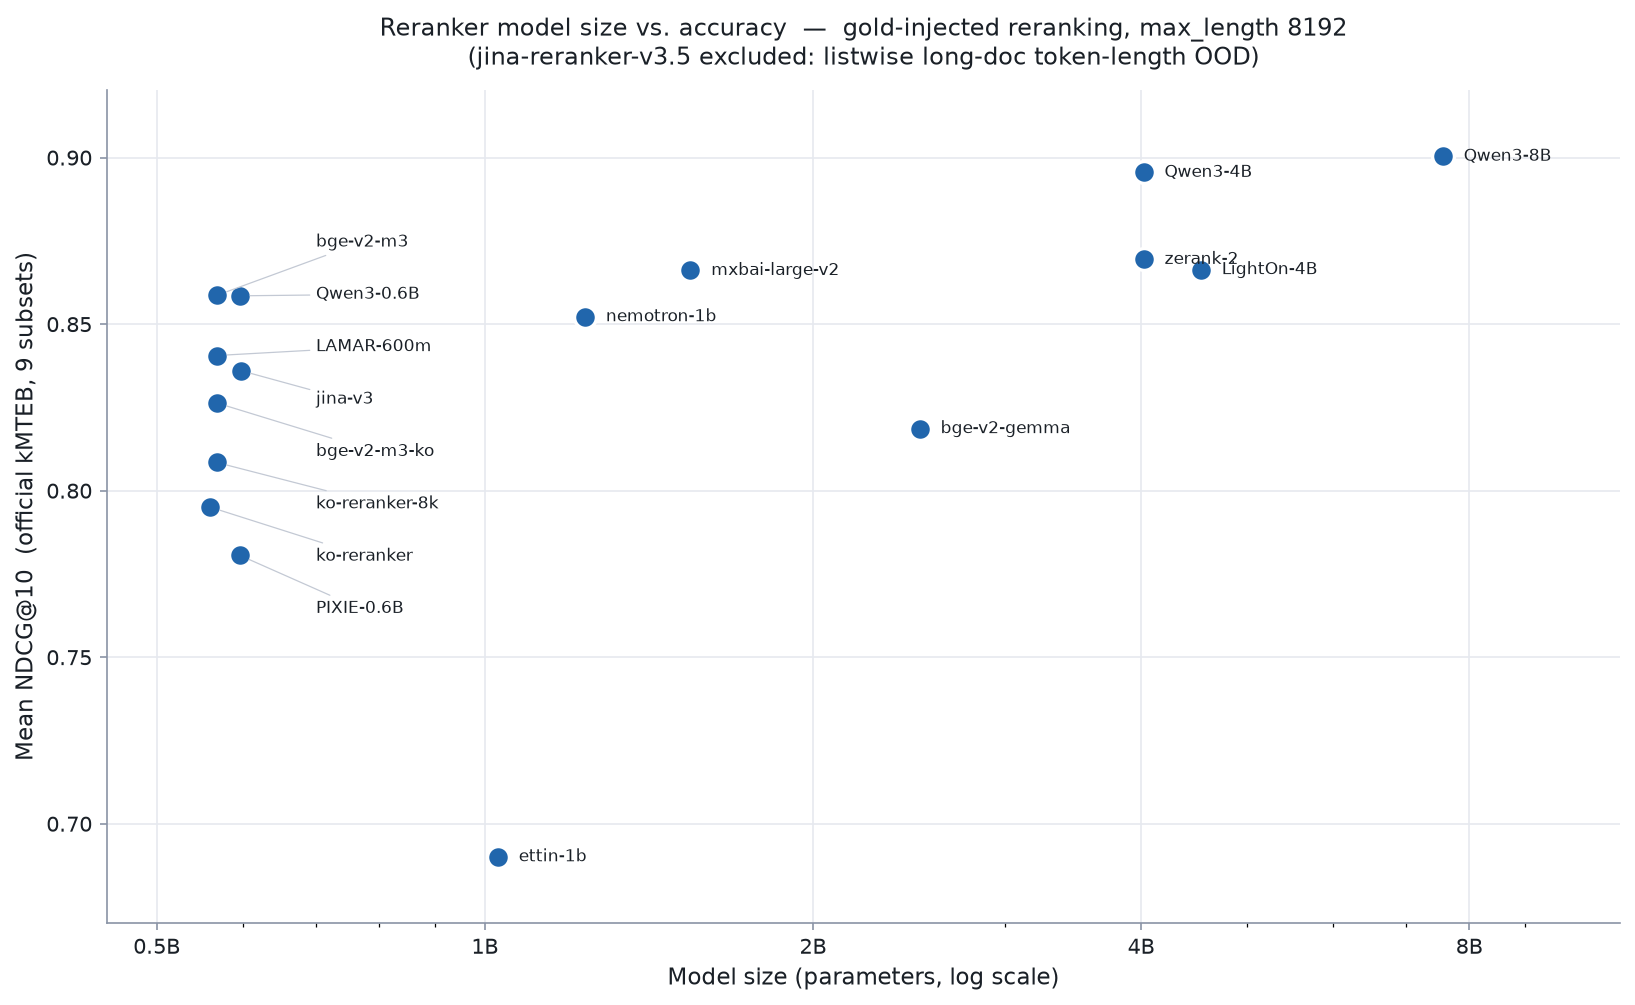
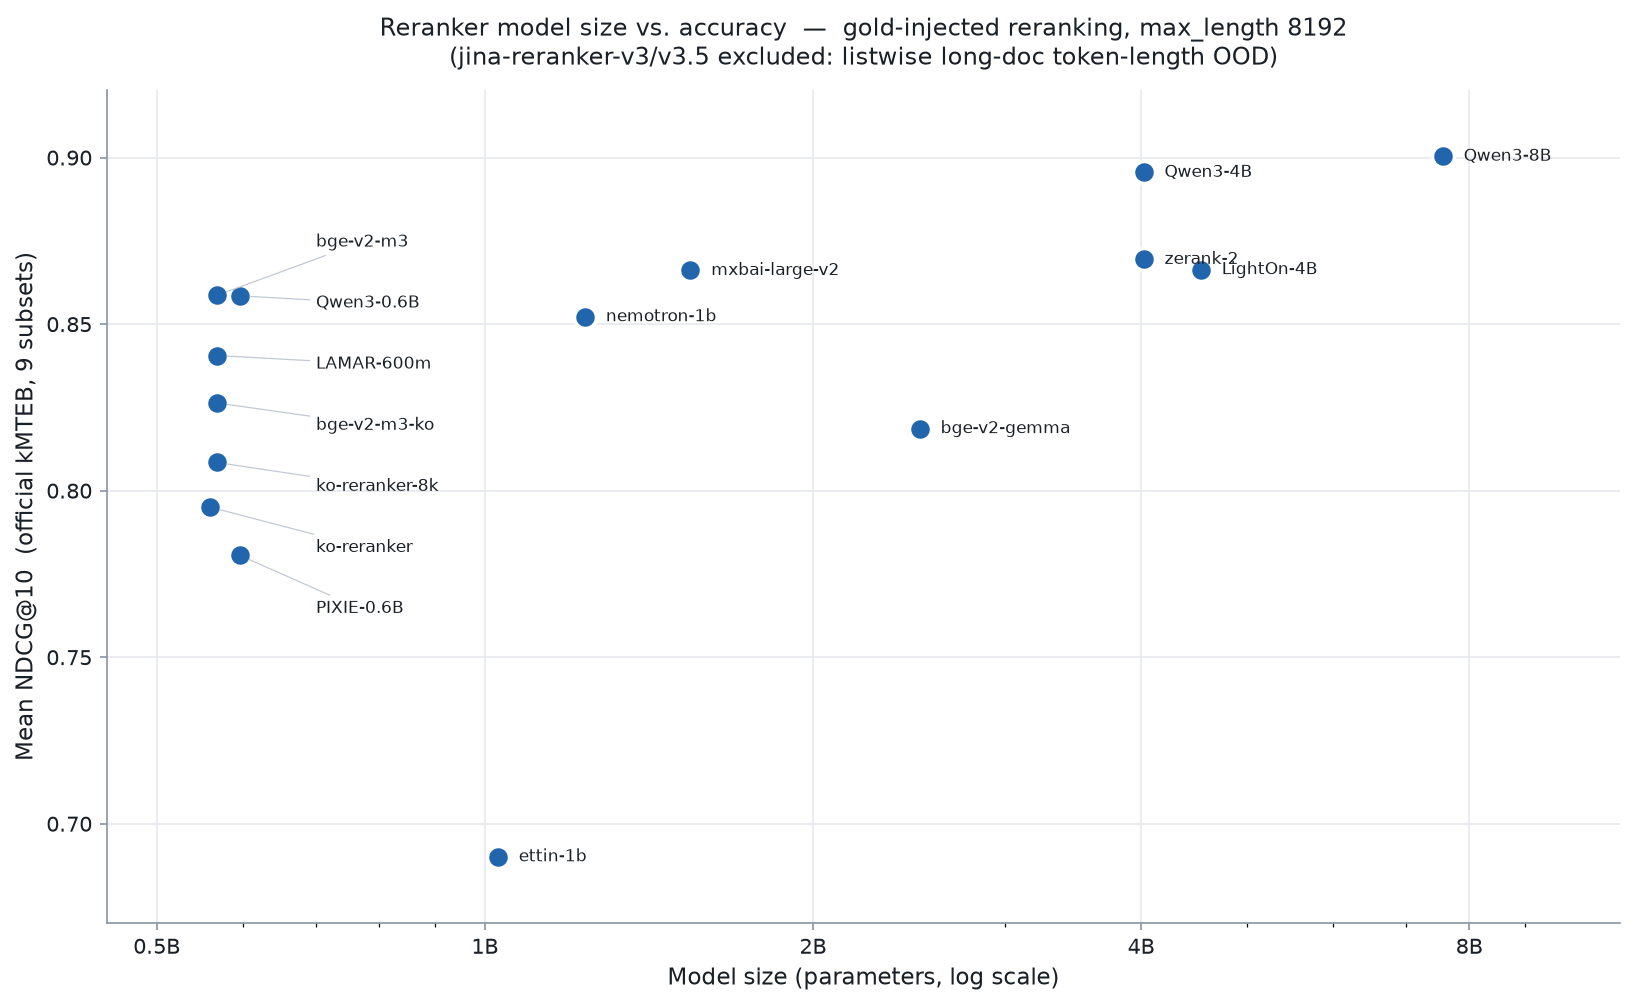
fix(jina): pass max_doc_length to rerank + unify v3/v3.5 MLDR as N/A
JinaRerankerV3Wrapper.predict 가 rerank 호출 시 max_doc_length 를 넘기지
않아, v3 는 wrapper 가 8192 로 pre-truncate 해도 rerank 내부 기본값
max_doc_length=2048 으로 재절단되어 기록된 _max_length=8192 와 실제 평가
길이가 불일치했다. inspect.signature 로 지원 시에만 전달하도록 수정
(v3.5 는 해당 인자가 없어 넘기면 TypeError → 시그니처 가드로 회피).

이 2048 버그 탓에 v3 만 MLDR 점수가 있고 v3.5 는 N/A 인 비대칭이 있었다.
8192 동일 조건에서 MLDR 은 후보 51개(mean ~8000 토큰)가 단일 컨텍스트
초과 → 블록 분할되며, 블록 확대 시 OOM(80GB 도)·블록 축소 시 listwise
소멸로 공정 비교가 불가능하다. 따라서 v3 의 MLDR 결과를 제거하고 v3/v3.5
모두 MLDR N/A 로 통일한다.

- eval/wrappers.py: max_doc_length 시그니처 가드 전달
- eval/results/.../jina-reranker-v3/MultiLongDocRetrieval.json 제거
- README.md: 9-subset 표에서 v3 제거, per-dataset MLDR=—, 근거 노트 v3/v3.5 통일
- assets/model_size_vs_ndcg9.png: 재생성(v3 제외, 15 models)
- eval/plot_size_vs_ndcg.py, leaderboard_reranker.py: v3/v3.5 라벨 통일

diff --git a/eval/wrappers.py b/eval/wrappers.py
@@ -1,3 +1,4 @@
+import inspect
 from abc import ABC, abstractmethod
 from typing import List, Tuple
 
@@ -127,6 +128,14 @@ class JinaRerankerV3Wrapper(BaseRerankerWrapper):
 
         scores = [0.0] * len(sentences)
 
+        # rerank 내부 문서 절단 길이를 max_doc_tokens 로 명시적으로 넘긴다.
+        # v3: rerank 기본값이 max_doc_length=2048 이라, 넘기지 않으면 wrapper 가 8192 로 미리
+        #     잘라도 내부에서 2048 로 재절단돼 기록된 _max_length=8192 와 불일치한다.
+        # v3.5: max_doc_length 인자 자체가 없어 넘기면 TypeError 이므로, 시그니처 지원 시에만 전달.
+        rerank_kwargs = {}
+        if "max_doc_length" in inspect.signature(self.model.rerank).parameters:
+            rerank_kwargs["max_doc_length"] = self.max_doc_tokens
+
         for query, doc_pairs in query_groups.items():
             if not doc_pairs:
                 continue
@@ -135,7 +144,8 @@ class JinaRerankerV3Wrapper(BaseRerankerWrapper):
 
             results = self.model.rerank(
                 query=query,
-                documents=list(docs)
+                documents=list(docs),
+                **rerank_kwargs
             )
 
             for result in results:

diff --git a/eval/plot_size_vs_ndcg.py b/eval/plot_size_vs_ndcg.py
@@ -1,7 +1,7 @@
 """모델 크기(파라미터 수) vs 성능(공식 kMTEB 9-subset mean NDCG@10) 산점도.
 
 - x축: 파라미터 수 (log scale, MODEL_SIZES 실측)
-- y축: 9개 공식 subset 평균 NDCG@10 (9개 전부 완료한 모델만 → listwise jina-reranker-v3.5 는
+- y축: 9개 공식 subset 평균 NDCG@10 (9개 전부 완료한 모델만 → listwise jina-reranker-v3/v3.5 는
         MLDR token-length OOD 로 자동 제외)
 - 단일 계열(모든 reranker 동일 카테고리) → 단일 색·범례 없음. 각 점에 모델명 직접 라벨.
 
@@ -92,7 +92,7 @@ def main():
     ax.set_xlabel("Model size (parameters, log scale)", fontsize=11, color=INK)
     ax.set_ylabel("Mean NDCG@10  (official kMTEB, 9 subsets)", fontsize=11, color=INK)
     ax.set_title("Reranker model size vs. accuracy  —  gold-injected reranking, max_length 8192\n"
-                 "(jina-reranker-v3.5 excluded: listwise long-doc token-length OOD)",
+                 "(jina-reranker-v3/v3.5 excluded: listwise long-doc token-length OOD)",
                  fontsize=11.5, color=INK, pad=12)
 
     ax.grid(True, which="major", color="#e6e9ef", linewidth=0.8, zorder=0)

diff --git a/eval/leaderboard_reranker.py b/eval/leaderboard_reranker.py
@@ -46,7 +46,7 @@ def app():
 
     st.header("MLDR 제외 (8 subsets · listwise / long-doc OOD 공정 비교)")
     st.caption(
-        "장문(MultiLongDocRetrieval) 제외 — listwise 모델(jina-reranker-v3.5)의 token-length OOD 공정 비교. "
+        "장문(MultiLongDocRetrieval) 제외 — listwise 모델(jina-reranker-v3/v3.5)의 token-length OOD 공정 비교. "
         "MLDR 제외로 전 모델 mean 이 9-subset 대비 상승 → 표 간 절대값 비교 금지."
     )
     st.dataframe(_mean_df(data, tasks_8), use_container_width=True)

diff --git a/README.md b/README.md
@@ -93,7 +93,6 @@ uv run streamlit run leaderboard_reranker.py
 | tomaarsen/Qwen3-Reranker-0.6B-seq-cls | 596M | 0.7708 | 0.8435 | 0.8585 |
 | nvidia/llama-nemotron-rerank-1b-v2 | 1.2B | 0.7693 | 0.8354 | 0.8522 |
 | nlpai-lab/LAMAR-600m | 568M | 0.7509 | 0.8240 | 0.8406 |
-| jinaai/jina-reranker-v3 | 597M | 0.7446 | 0.8158 | 0.8361 |
 | dragonkue/bge-reranker-v2-m3-ko | 568M | 0.7281 | 0.8060 | 0.8263 |
 | BAAI/bge-reranker-v2-gemma | 2.5B | 0.7383 | 0.8007 | 0.8186 |
 | upskyy/ko-reranker-8k | 568M | 0.6906 | 0.7883 | 0.8085 |
@@ -101,14 +100,14 @@ uv run streamlit run leaderboard_reranker.py
 | telepix/PIXIE-Spell-Reranker-Preview-0.6B | 596M | 0.6927 | 0.7599 | 0.7806 |
 | cross-encoder/ettin-reranker-1b-v1 | 1.0B | 0.5686 | 0.6605 | 0.6901 |
 
-> `jinaai/jina-reranker-v3.5` 는 **listwise** reranker 로, 장문(`MultiLongDocRetrieval`)의 51개 후보를 한 컨텍스트로 재랭킹할 때 **token length OOD**(8192 tractable 시간 내 완료 불가, 16시간+ 소요)가 발생해 위 9-subset 평가에서 제외됩니다. 아래 8-subset 표에서 비교하세요.
+> `jinaai/jina-reranker-v3` 와 `jinaai/jina-reranker-v3.5` 는 **listwise** reranker 로, 장문(`MultiLongDocRetrieval`)에서 다른 모델과 **동일 조건(8192)으로 공정 비교가 불가능**하여 두 모델 모두 MLDR 을 N/A 로 두고 위 9-subset 평가에서 제외합니다. 실제 후보셋(정답 ∪ BM25 top-50 ≈ 51개, 문서 토큰 길이 mean ≈ 8000)을 8192 로 재랭킹하면 51개가 단일 컨텍스트에 들어가지 않아 블록으로 분할되는데, **블록을 키우면 OOM**(80GB GPU 에서도 첫 블록 ≈ 126k 토큰), **블록을 줄이면**(예: 블록당 2문서) jina 의 listwise 상호작용이 사실상 사라져 pointwise 에 가까워지고 점수가 임의의 블록 크기(다른 모델엔 없는 노브)에 의존하게 됩니다. 즉 장문 task 는 listwise reranker 의 **token-length OOD** 로 공정 측정이 원천적으로 어렵습니다. 아래 8-subset 표에서 비교하세요.
 
-**모델 크기 vs. 성능 (9-subset)** — x축 파라미터 수(log), y축 9-subset mean NDCG@10. jina-reranker-v3.5 는 제외.
+**모델 크기 vs. 성능 (9-subset)** — x축 파라미터 수(log), y축 9-subset mean NDCG@10. jina-reranker-v3/v3.5 는 제외.
 
 ![Reranker model size vs. NDCG@10 (official kMTEB 9 subsets)](assets/model_size_vs_ndcg9.png)
 
 #### Results — MLDR 제외 (8 subsets · listwise / long-doc OOD 공정 비교)
-장문(`MultiLongDocRetrieval`)을 제외한 **8개 공통 subset** 기준 mean NDCG@1/5/10 (NDCG@10 내림차순). listwise 모델(`jina-reranker-v3.5`)을 포함해 **모든 모델을 동일 기준으로 비교**합니다. (MLDR 이 가장 어려운 task 라 전 모델의 mean 이 9-subset 대비 상승합니다 — 표 간 절대값 비교 금지.)
+장문(`MultiLongDocRetrieval`)을 제외한 **8개 공통 subset** 기준 mean NDCG@1/5/10 (NDCG@10 내림차순). listwise 모델(`jina-reranker-v3`, `jina-reranker-v3.5`)을 포함해 **모든 모델을 동일 기준으로 비교**합니다. (MLDR 이 가장 어려운 task 라 전 모델의 mean 이 9-subset 대비 상승합니다 — 표 간 절대값 비교 금지.)
 
 | Model | Params | Mean NDCG@1 | Mean NDCG@5 | Mean NDCG@10 |
 |---|---|---|---|---|
@@ -137,6 +136,7 @@ uv run streamlit run leaderboard_reranker.py
 | tomaarsen/Qwen3-Reranker-8B-seq-cls | 7.6B | 0.8679 | 0.9546 | 0.8893 | 0.9907 | 0.8490 | 0.8409 | 0.8220 | 0.9880 | 0.9014 |
 | tomaarsen/Qwen3-Reranker-4B-seq-cls | 4.0B | 0.8733 | 0.9707 | 0.8685 | 0.9906 | 0.8533 | 0.8321 | 0.8105 | 0.9861 | 0.8752 |
 | jinaai/jina-reranker-v3.5 | 597M | 0.8539 | 0.9838 | 0.8094 | 0.9733 | 0.8565 | 0.8194 | — | 0.9887 | 0.8545 |
+| jinaai/jina-reranker-v3 | 597M | 0.8553 | 0.9773 | 0.7960 | 0.9695 | 0.8449 | 0.8104 | — | 0.9859 | 0.8546 |
 | zeroentropy/zerank-2-reranker | 4.0B | 0.8712 | 0.9436 | 0.8646 | 0.9846 | 0.8003 | 0.8027 | 0.7120 | 0.9791 | 0.8669 |
 | lightonai/LightOn-rerank-PW-4B | 4.5B | 0.8567 | 0.9321 | 0.8693 | 0.9882 | 0.8072 | 0.8091 | 0.7609 | 0.9803 | 0.7938 |
 | mixedbread-ai/mxbai-rerank-large-v2 | 1.5B | 0.8563 | 0.9531 | 0.8772 | 0.9778 | 0.7939 | 0.8771 | 0.6787 | 0.9681 | 0.8130 |
@@ -144,7 +144,6 @@ uv run streamlit run leaderboard_reranker.py
 | tomaarsen/Qwen3-Reranker-0.6B-seq-cls | 596M | 0.8336 | 0.9308 | 0.8489 | 0.9779 | 0.8507 | 0.7359 | 0.7813 | 0.9808 | 0.7867 |
 | nvidia/llama-nemotron-rerank-1b-v2 | 1.2B | 0.8536 | 0.9480 | 0.8491 | 0.9883 | 0.8182 | 0.8026 | 0.6719 | 0.9858 | 0.7527 |
 | nlpai-lab/LAMAR-600m | 568M | 0.8461 | 0.9591 | 0.8225 | 0.9835 | 0.8214 | 0.7975 | 0.5679 | 0.9850 | 0.7822 |
-| jinaai/jina-reranker-v3 | 597M | 0.8553 | 0.9773 | 0.7960 | 0.9695 | 0.8449 | 0.8104 | 0.4307 | 0.9859 | 0.8546 |
 | dragonkue/bge-reranker-v2-m3-ko | 568M | 0.8232 | 0.9684 | 0.8708 | 0.9769 | 0.7573 | 0.6776 | 0.7061 | 0.9846 | 0.6721 |
 | BAAI/bge-reranker-v2-gemma | 2.5B | 0.8614 | 0.9407 | 0.8698 | 0.9857 | 0.8362 | 0.8429 | 0.2881 | 0.9858 | 0.7572 |
 | upskyy/ko-reranker-8k | 568M | 0.8143 | 0.9230 | 0.8388 | 0.9291 | 0.7249 | 0.6998 | 0.5975 | 0.9718 | 0.7770 |
